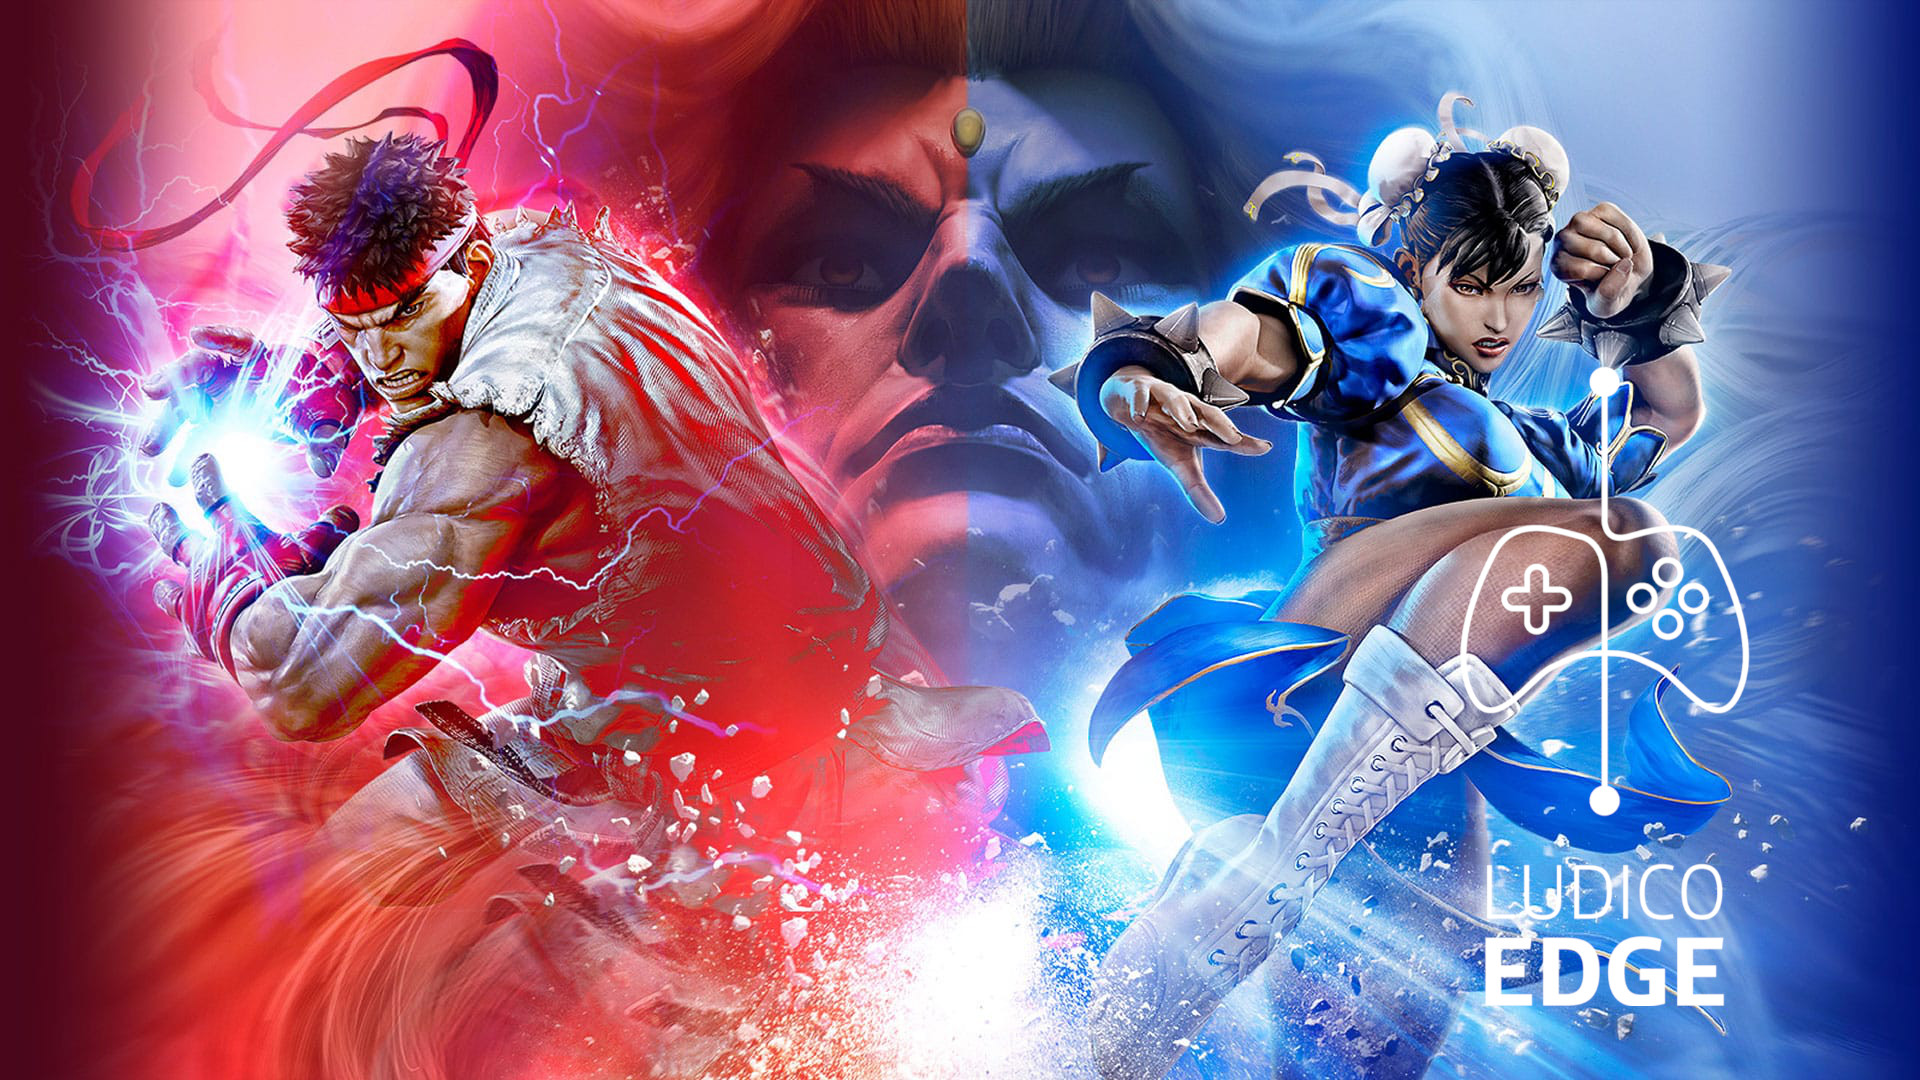
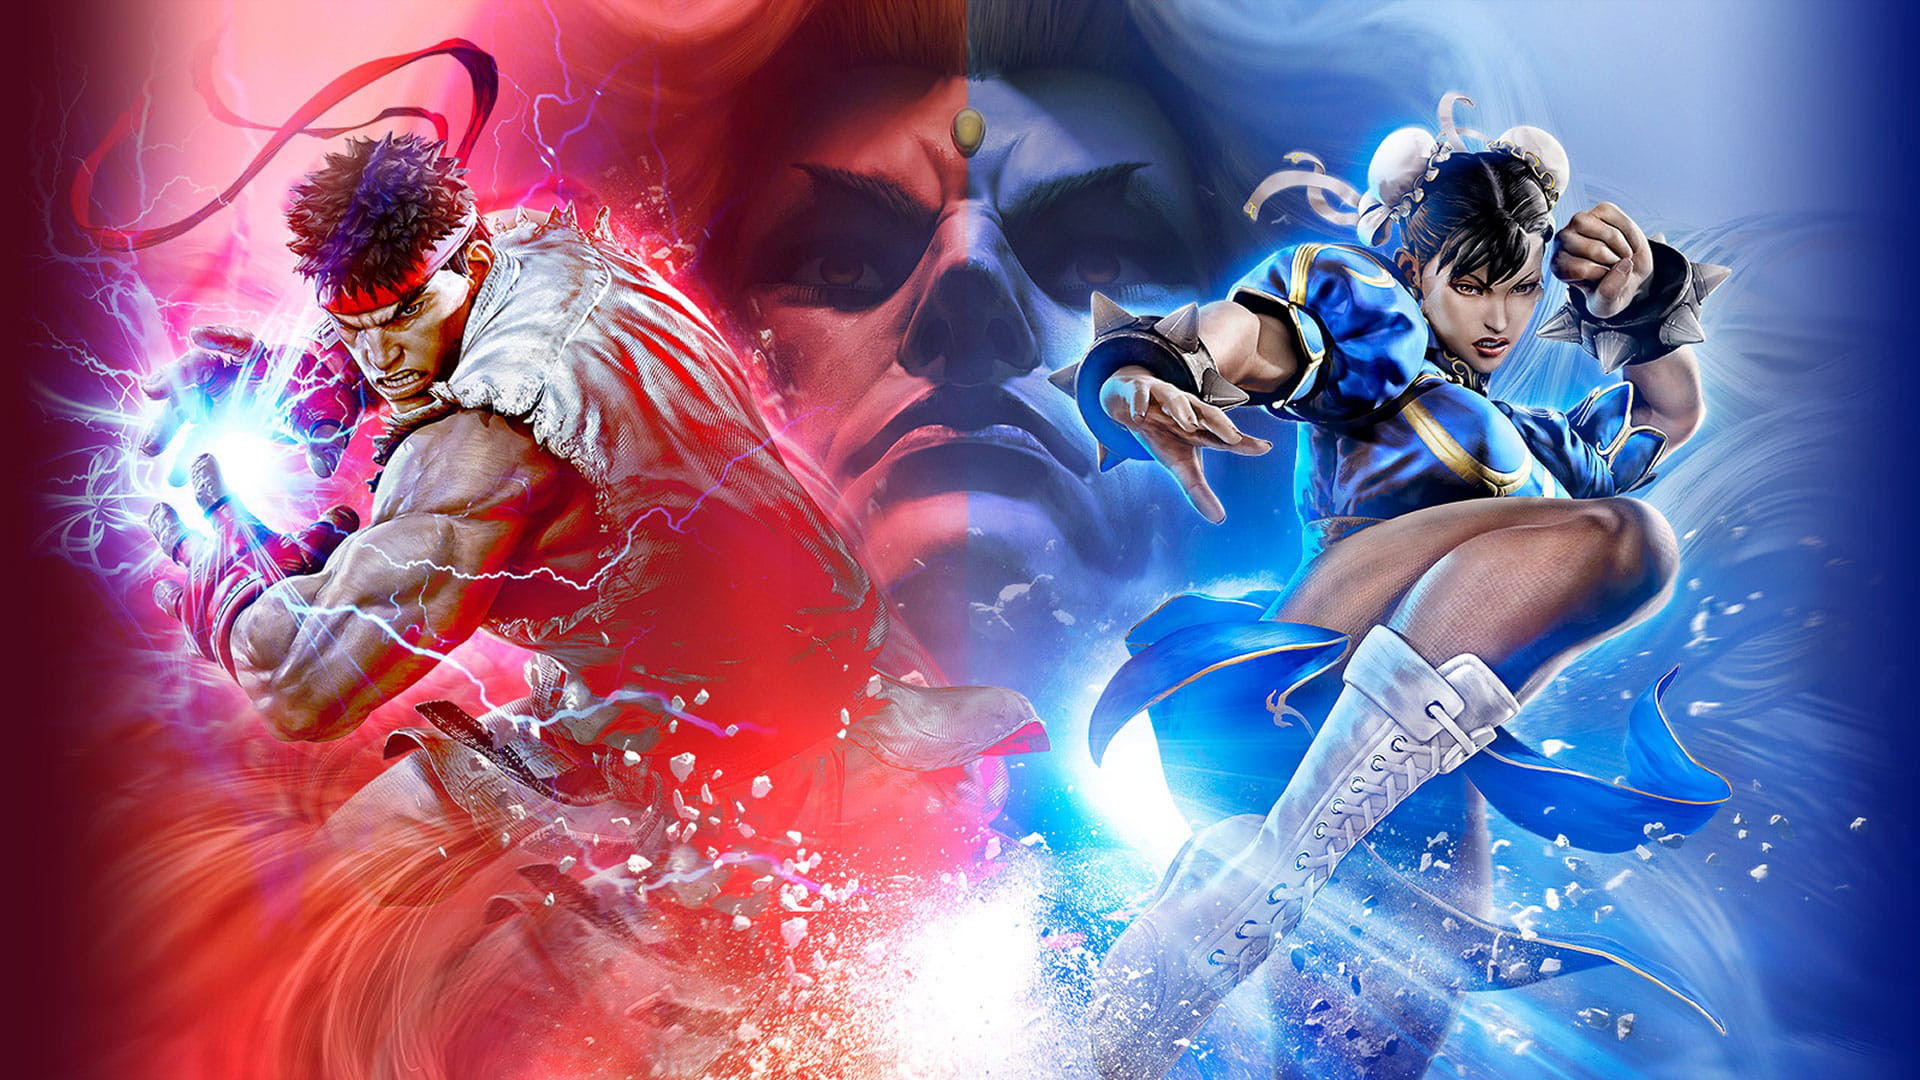
ui

diff --git a/app/gui/main_cloud.qml b/app/gui/main_cloud.qml
@@ -22,7 +22,56 @@ ApplicationWindow {
         id: background
         anchors.fill: parent;
         color: "#000000"
-        Image { source: "qrc:/res/street_fighter.jpeg"; fillMode: Image.PreserveAspectCrop; anchors.fill: parent;  opacity: 0.4 }
+
+        Image {
+            id: backgroudImage
+            source: "qrc:/res/street_fighter_t.jpeg";
+            fillMode: Image.PreserveAspectCrop;
+            anchors.fill: parent;
+            opacity: 0.3
+        }
+        Image {
+            id: logoImage
+            source: "qrc:/res/logo.png";
+            fillMode: Image.PreserveAspectFit; clip:true;
+            //anchors.fill: parent;
+            anchors.verticalCenter: parent.verticalCenter
+            x: parent.width * 0.1
+            height: parent.height * 0.65;
+            opacity: 1
+        }
+
+        NumberAnimation {
+            id: animateLogoOpacity
+            target: logoImage
+            properties: "opacity"
+            from: 0.1
+            to: 1
+            duration: 3000
+            loops: Animation.Infinite
+            easing {type: Easing.InOutBack; }
+       }
+
+        NumberAnimation {
+            id: animateOpacity
+            target: backgroudImage
+            properties: "opacity"
+            from: 0.3
+            to: 0.
+            duration: 1000
+            //loops: Animation.Infinite
+            easing {type: Easing.OutQuad; }
+       }
+        NumberAnimation {
+            id: animateOpacityUp
+            target: backgroudImage
+            properties: "opacity"
+            from: 0.0
+            to: 0.3
+            duration: 1000
+            //loops: Animation.Infinite
+            easing {type: Easing.InQuint; }
+       }
     }
 
     visibility: (SystemProperties.hasWindowManager && StreamingPreferences.startWindowed) ? "Windowed" : "Maximized"
@@ -35,6 +84,9 @@ ApplicationWindow {
 
         onCurrentItemChanged: {
             // Ensure focus travels to the next view when going back
+            //background.opacity = 0.4
+            animateOpacityUp.start()
+            animateLogoOpacity.start()
             if (currentItem) {
                 currentItem.forceActiveFocus()
             }
@@ -187,7 +239,7 @@ ApplicationWindow {
         background: Rectangle {
                 color: "#ffffff"
                 opacity: 0.2
-            }
+        }
 
         Label {
             id: titleLabel
@@ -226,8 +278,9 @@ ApplicationWindow {
             NavigableToolButton {
                 visible: stackView.depth > 1
                 id: loggoutButton
+                opacity: 1.0
 
-                iconSource:  "qrc:/res/logout.png"
+                iconSource:  "qrc:/res/logout4.png" //"qrc:/res/logout.png"
 
                 onClicked: {
                     toolBar.visible = false

diff --git a/app/gui/CliLoginView.qml b/app/gui/CliLoginView.qml
@@ -33,7 +33,7 @@ Item {
     function onSearchingComputerDone(ok, data) {
         contactingWithBackend = false
         if (ok) {
-            computerName = dataw
+            computerName = data
         }else{
             stageLabel.text = "Error in pairing with the computer: " +data
         }
@@ -54,6 +54,7 @@ Item {
         }else{
             stageLabel.text = "Error in pairing with the computer..."
             loginRequired = true
+            animateOpacityUp.start()
         }
     }
 
@@ -67,14 +68,24 @@ Item {
             myServerIp = ip
             loginRequired = false
 
-            launcher.seekComputer(ComputerManager,
+            if (myId.length == 0 || myCred.length == 0 ||
+                myKey.length == 0 || myServerIp.length == 0)
+            {
+                stageLabel.text = "No server is available. Try again!";
+                loginRequired = true
+                animateOpacityUp.start()
+
+            }else{
+                launcher.seekComputer(ComputerManager,
                                   myId,
                                   myCred,
                                   myKey,
                                   myServerIp, name, uuid, cert)
+            }
         }else{
             stageLabel.text = "Error in getting your creadentials. Login required";
             loginRequired = true
+            animateOpacityUp.start()
         }
     }
 
@@ -89,14 +100,16 @@ Item {
 
     function onLogginDone(ok, id) {
         contactingWithBackend = false
+
         if (ok) {
             stageLabel.text = "Loggin successed";
             loginRequired = false
             sessionId = id
             launcher.getMyCredentials(sessionId)
         }else{
-            stageLabel.text = "Loggin failed: " + id;
+            stageLabel.text = "Loggin failed!"
             loginRequired = true
+            animateOpacityUp.start()
         }
     }
 
@@ -171,7 +184,10 @@ Item {
             text: "Login >"
             enabled: loginRequired && login.text.length > 0 && password.text.length >0 && !contactingWithBackend
             visible: loginRequired
-            onClicked: performLogin(login.text, password.text)
+            onClicked: {
+                animateOpacity.start()
+                performLogin(login.text, password.text)
+            }
             anchors.horizontalCenter: parent.horizontalCenter
         }
 
